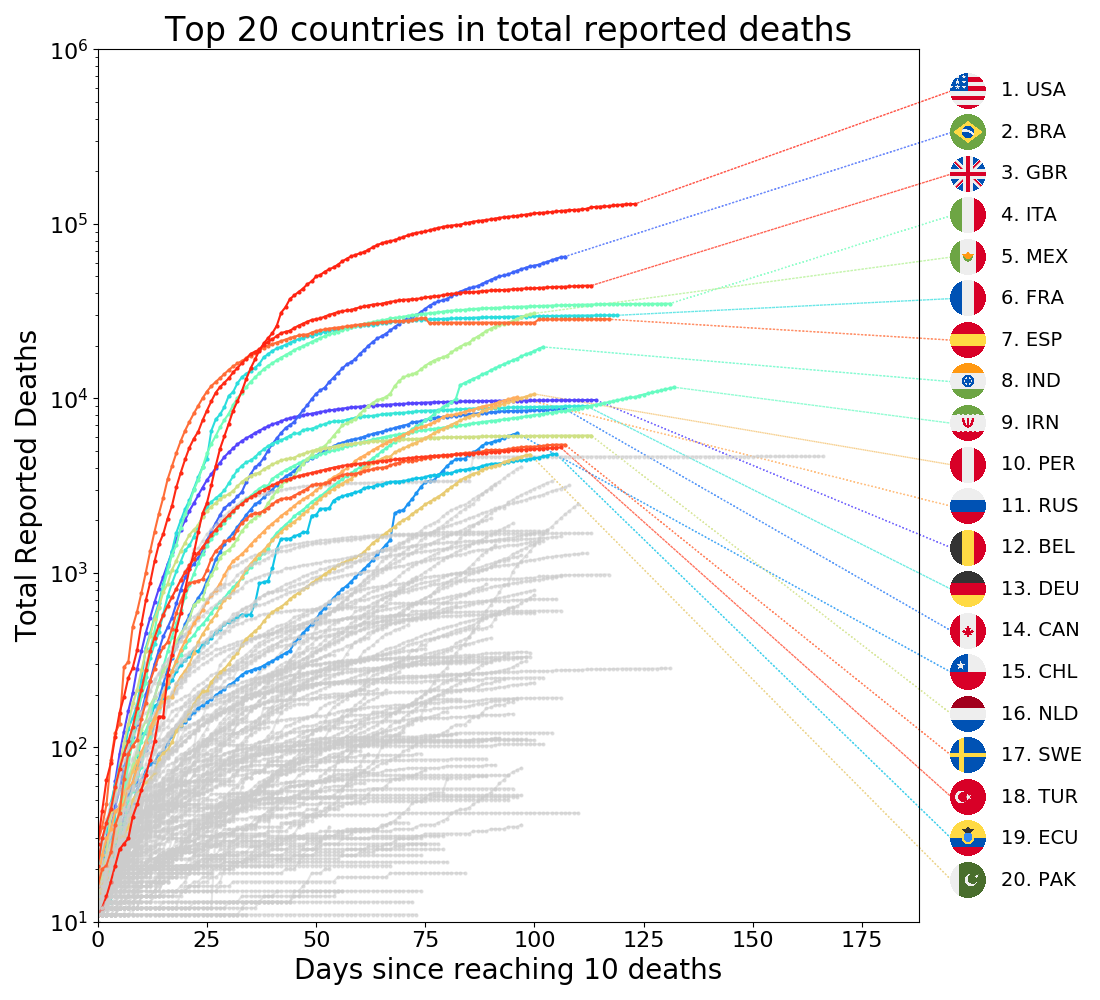
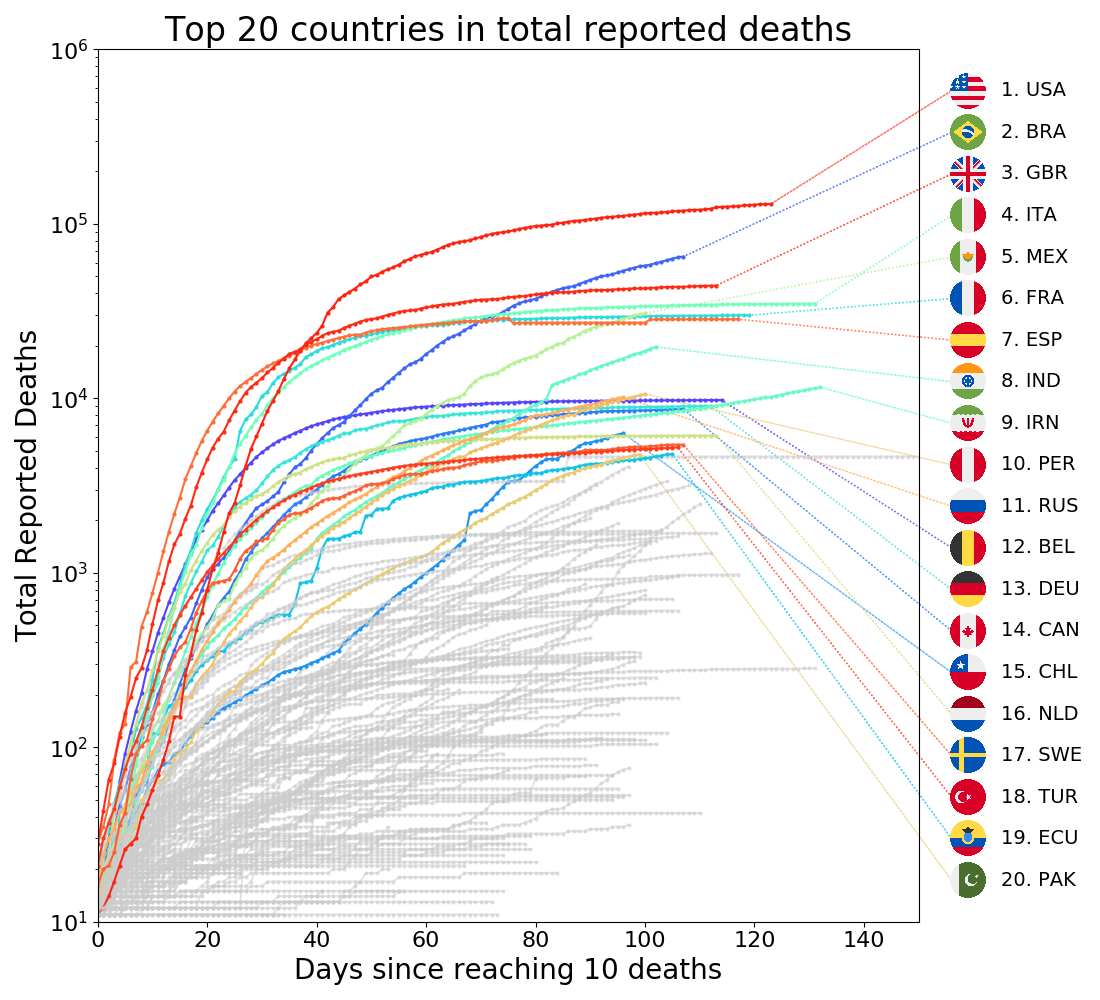
Countries Rolling average per day

diff --git a/src/countries_eda.py b/src/countries_eda.py
@@ -50,7 +50,8 @@ countries2id = pd.DataFrame(world_df.groupby('countriesAndTerritories')['geoId']
 countries2abr = pd.DataFrame(world_df.groupby('countriesAndTerritories')['countryterritoryCode'].max())
 
 topn = 20
-maxx = np.max(world_df['dateRep'].unique()-min_date)/np.timedelta64(1, 'D')
+#maxx = np.max(world_df['dateRep'].unique()-min_date)/np.timedelta64(1, 'D')
+maxx = 150
 
 maxy = 1e07
 miny = 100
